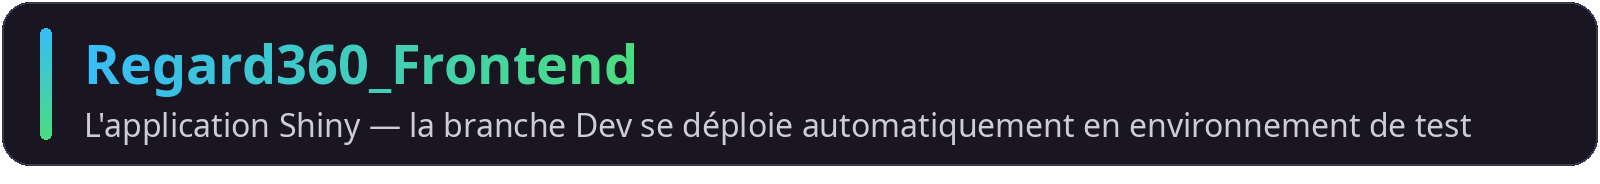
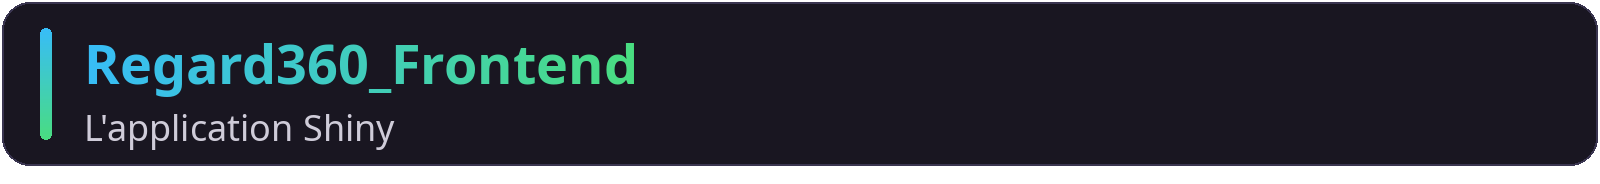
.

Changed region(s): [[0.0312, 0.5978, 0.9375, 0.8152]]

diff --git a/profile/README.md b/profile/README.md
@@ -27,13 +27,13 @@ Ici, vous trouverez les différents projets qui font partie de cette organisatio
 
 <h2 align="center">Les dépôts du projet</h2>
 
-[![Regard360_Frontend — L'application Shiny](assets/carte-frontend.png)](https://github.com/CDJ-Ecobes/Regard360_Frontend)
+<a href="https://github.com/CDJ-Ecobes/Regard360_Frontend"><picture><source media="(prefers-color-scheme: dark)" srcset="assets/carte-frontend.png"><source media="(prefers-color-scheme: light)" srcset="assets/carte-frontend-claire.png"><img alt="Regard360_Frontend — L'application Shiny" src="assets/carte-frontend.png"></picture></a>
 
-[![Regard360_Scripts_R — Les scripts R de traitement des données](assets/carte-scripts.png)](https://github.com/CDJ-Ecobes/Regard360_Scripts_R)
+<a href="https://github.com/CDJ-Ecobes/Regard360_Scripts_R"><picture><source media="(prefers-color-scheme: dark)" srcset="assets/carte-scripts.png"><source media="(prefers-color-scheme: light)" srcset="assets/carte-scripts-claire.png"><img alt="Regard360_Scripts_R — Les scripts R de traitement des données" src="assets/carte-scripts.png"></picture></a>
 
-[![Documentation_Regard360 — La documentation du projet](assets/carte-documentation.png)](https://github.com/CDJ-Ecobes/Documentation_Regard360)
+<a href="https://github.com/CDJ-Ecobes/Documentation_Regard360"><picture><source media="(prefers-color-scheme: dark)" srcset="assets/carte-documentation.png"><source media="(prefers-color-scheme: light)" srcset="assets/carte-documentation-claire.png"><img alt="Documentation_Regard360 — La documentation du projet" src="assets/carte-documentation.png"></picture></a>
 
-[![dev_projet_r360 — Le dépôt de travail de l'équipe](assets/carte-dev-projet.png)](https://github.com/CDJ-Ecobes/dev_projet_r360)
+<a href="https://github.com/CDJ-Ecobes/dev_projet_r360"><picture><source media="(prefers-color-scheme: dark)" srcset="assets/carte-dev-projet.png"><source media="(prefers-color-scheme: light)" srcset="assets/carte-dev-projet-claire.png"><img alt="dev_projet_r360 — Le dépôt de travail de l'équipe" src="assets/carte-dev-projet.png"></picture></a>
 
 ---
 
@@ -41,11 +41,11 @@ Ici, vous trouverez les différents projets qui font partie de cette organisatio
 
 <p align="center"><em>Ces dépôts servent aux essais et à l'apprentissage de l'équipe de développement.</em></p>
 
-[![Regard360_Frontend_Test — Copie de test de l'application](assets/carte-frontend-test.png)](https://github.com/CDJ-Ecobes/Regard360_Frontend_Test)
+<a href="https://github.com/CDJ-Ecobes/Regard360_Frontend_Test"><picture><source media="(prefers-color-scheme: dark)" srcset="assets/carte-frontend-test.png"><source media="(prefers-color-scheme: light)" srcset="assets/carte-frontend-test-claire.png"><img alt="Regard360_Frontend_Test — Copie de test de l'application" src="assets/carte-frontend-test.png"></picture></a>
 
-[![R360_environnement_test — Dépôt d'apprentissage GitHub](assets/carte-environnement-test.png)](https://github.com/CDJ-Ecobes/R360_environnement_test)
+<a href="https://github.com/CDJ-Ecobes/R360_environnement_test"><picture><source media="(prefers-color-scheme: dark)" srcset="assets/carte-environnement-test.png"><source media="(prefers-color-scheme: light)" srcset="assets/carte-environnement-test-claire.png"><img alt="R360_environnement_test — Dépôt d'apprentissage GitHub" src="assets/carte-environnement-test.png"></picture></a>
 
-[![TEST-ECOBES-DEV — Bac à sable de tests de scripts](assets/carte-test-ecobes-dev.png)](https://github.com/CDJ-Ecobes/TEST-ECOBES-DEV)
+<a href="https://github.com/CDJ-Ecobes/TEST-ECOBES-DEV"><picture><source media="(prefers-color-scheme: dark)" srcset="assets/carte-test-ecobes-dev.png"><source media="(prefers-color-scheme: light)" srcset="assets/carte-test-ecobes-dev-claire.png"><img alt="TEST-ECOBES-DEV — Bac à sable de tests de scripts" src="assets/carte-test-ecobes-dev.png"></picture></a>
 
 ---
 
